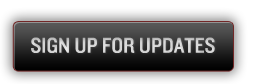
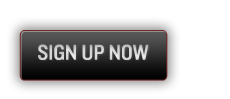
change up form on landing

diff --git a/public/stylesheets/style.css b/public/stylesheets/style.css
@@ -174,8 +174,17 @@ logo img {
 .landing-form {
   width: 260px;
   position: absolute;
-  left: 70px;
-  top: 200px;
+  left: 60px;
+  top: 190px;
+  color: #730000;
+  background-color: #B87676;
+  padding: 10px 15px 0px 15px;
+}
+
+.landing-form h2 {
+  margin-bottom: 10px;
+  color: #730000;
+  font-size: 16pt;
 }
 
 
@@ -186,15 +195,17 @@ logo img {
 .landing-form input{
   height: 18px;
   width: 250px;
-  font-size: 15px;
+  font-size: 10pt;
   position: relative;
-    margin-bottom: 15px;
+}
+
+.landing-form #subscriber_name {
+  margin-bottom: 10px;
 }
 
 .landing-form #subscriber_submit{
   height: 85px;
   width: 250px;
-  margin: 0 0 0 -10px;
   background: url('images/button.png') transparent;
   border: 0;
   cursor:pointer;
